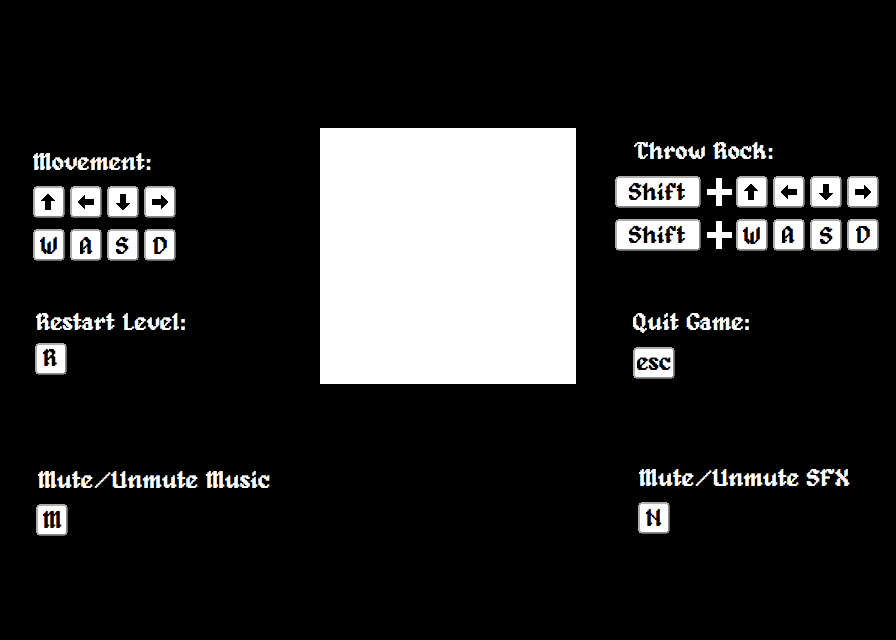
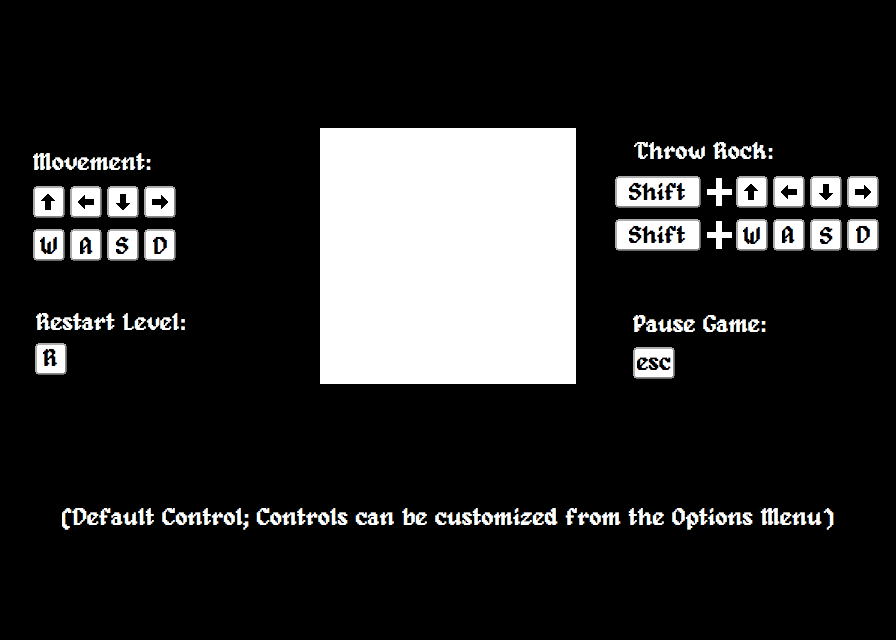
Check-in just in case, comp trouble

Changed region(s): [[0.0312, 0.7188, 0.9688, 0.8438], [0.6875, 0.4688, 0.875, 0.5312]]

diff --git a/src/game_state/review_input_bindings.rb b/src/game_state/review_input_bindings.rb
@@ -3,13 +3,17 @@ class GameState
     
     def setup_menu
       @title = "Current Bindings"
-      add_option("Back") { transition_to(GameState::ConfigMenu.new) }
+      add_option("Accept") { back }
       add_option("Customize Bindings") { transition_to(GameState::CustomizeInputMenu.new) }
       add_option("Restore Defaults") { InputManager.restore_default_bindings; MediaManager.play_sfx("portal"); }
     end
     
     def menu_start_pos
       475
+    end
+    
+    def back
+      transition_to(GameState::ConfigMenu.new)
     end
     
     def draw
@@ -19,7 +23,7 @@ class GameState
     
     def draw_binding(desc,keys,index)
       font = MediaManager.font('small')
-      ypos = 150 + 25 * index
+      ypos = 150 + 30 * index
       key_str = names_for(keys)
       font.draw_rel("#{desc}:",center_x-80, ypos, 14,1.0,0.5)
       font.draw_rel(key_str,center_x-70,ypos, 14, 0.0, 0.5)
@@ -33,7 +37,11 @@ class GameState
       char = Gosu.button_id_to_char(key)
       return char.upcase if char.length > 0
       sym = (Gosu.constants - [:MAJOR_VERSION, :MINOR_VERSION, :POINT_VERSION, :VERSION, :LICENSES]).find {|const| Gosu.const_get(const) == key }
-      return sym.to_s if sym
+      if sym
+        name = sym.to_s
+        name = name.start_with?("KB_") ? name[3..-1] : name
+        return name.tr('_',' ')
+      end
       key
     end
     

diff --git a/src/game_state/control_style_menu.rb b/src/game_state/control_style_menu.rb
@@ -2,19 +2,29 @@ class GameState
   class ControlStyleMenu < Menu
     def setup_menu
       @title = "Choose Control Style"
-      add_option("Hold Modifier to Throw") { InputManager.input_style = :modifier; back }
-      add_option("Dedicated Throw Controls") { InputManager.input_style = :separate; back }
+      add_option("Hold Modifier to Throw") { InputManager.input_style = :modifier; show_config }
+      add_option("Dedicated Throw Controls") { InputManager.input_style = :separate; show_config }
       add_option("Back") { back }
     end
     
     
     def back
-      transition_to(GameState::ConfigMenu.new )
+      transition_to(GameState::ConfigMenu.new)
+    end
+    
+    def show_config
+      transition_to(GameState::ReviewInputBindings.new)
     end
     
     def draw
       super
-      #TODO: add explanations for the two control methods
+      MediaManager.font("small").draw_rel(description,center_x,550,14,0.5,0.5)
+    end
+
+    DESCRIPTIONS = ["Hold a modifier key and press a direction to throw a rock", "Separate direction keys for movement and throwing rocks",""].freeze
+
+    def description
+      DESCRIPTIONS[@position]
     end
       
     

diff --git a/src/game_state/config_menu.rb b/src/game_state/config_menu.rb
@@ -2,11 +2,15 @@ class GameState
   class ConfigMenu < Menu
     def setup_menu
       @title = "Options"
-      add_option("Music: #{MediaManager.music? ? "On" : "Off"}") { MediaManager.toggle_music }
-      add_option("SFX: #{MediaManager.sfx? ? "On" : "Off"}") { MediaManager.toggle_sfx }
+      add_option(->{"Music: #{MediaManager.music? ? "On" : "Off"}"}) { MediaManager.toggle_music }
+      add_option(->{"SFX: #{MediaManager.sfx? ? "On" : "Off"}"}) { MediaManager.toggle_sfx }
       add_option("Choose Control Style") { transition_to(GameState::ControlStyleMenu.new) }
       add_option("View/Customize Controls") { transition_to(GameState::ReviewInputBindings.new) }
-      add_option("Back") { transition_to(parent_menu) }
+      add_option("Back") { back }
+    end
+    
+    def back
+      transition_to(parent_menu)
     end
     
     def parent_menu

diff --git a/src/game_state/menu.rb b/src/game_state/menu.rb
@@ -30,7 +30,8 @@ class GameState
       @options.each_with_index do |option,index|
         scale = (index == @position) ? 1.5 : 1
         ypos = menu_start_pos + (75 * index)
-        draw_text(option[:text],ypos,scale)
+        text = option[:text].respond_to?(:call) ? option[:text].call : option[:text]
+        draw_text(text,ypos,scale)
       end
     end
     
@@ -39,8 +40,16 @@ class GameState
       when :south, :throw_south then @position += 1
       when :north, :throw_north then @position -= 1
       when :accept then trigger_selected
+      when :pause then on_menu_button
       end
       @position %= @options.length
+    end
+    
+    def on_menu_button
+      back
+    end
+    
+    def back
     end
       
     def transition_to(state)

diff --git a/src/util/input_manager/modifier_controls.rb b/src/util/input_manager/modifier_controls.rb
@@ -13,9 +13,7 @@ class InputManager
       KbA => :west,
       KbD => :east,
       KbEscape => :pause,
-      KbR => :restart,
-      KbM => :toggle_music,
-      KbN => :toggle_sfx,
+      KbR => :restart
     }.freeze
   
     MODIFIERS = [KbLeftShift, KbRightShift].freeze
@@ -34,9 +32,7 @@ class InputManager
       east: "Move Right",
       modifier: "Hold for Throw",
       pause: "Pause Game",
-      restart: "Restart Level",
-      toggle_music: "Music On/Off",
-      toggle_sfx: "SFX On/Off"     
+      restart: "Restart Level"
     }.freeze
 
     attr_reader :queued_input

diff --git a/src/util/input_manager/separate_controls.rb b/src/util/input_manager/separate_controls.rb
@@ -13,9 +13,7 @@ class InputManager
       KbLeft => :throw_west,
       KbRight => :throw_east,
       KbEscape => :pause,
-      KbR => :restart,
-      KbM => :toggle_music,
-      KbN => :toggle_sfx
+      KbR => :restart
     }.freeze
     
     BIND_LIST = {
@@ -28,9 +26,7 @@ class InputManager
       throw_west: "Throw Left",
       throw_east: "Throw Right",
       pause: "Pause Game",
-      restart: "Restart Level",
-      toggle_music: "Music On/Off",
-      toggle_sfx: "SFX On/Off"     
+      restart: "Restart Level" 
     }.freeze
     
     def setup_bindings

diff --git a/src/util/media_manager.rb b/src/util/media_manager.rb
@@ -61,7 +61,7 @@ module MediaManager
       case level
       when  0..5  then "oceans"
       when  6..10 then "ghost"
-      when 11..15 then "cheese"
+      when 11..20 then "cheese" #TODO: Make fourth song
       else "oceans"
       end
     end
@@ -85,7 +85,7 @@ module MediaManager
     end
     
     def toggle_music
-      Gosu::Song.current_song ? stop_music : play_music(_song_for_level)
+      Gosu::Song.current_song ? stop_music : play_music
     end
   
     private  

diff --git a/src/game_state/pause_menu.rb b/src/game_state/pause_menu.rb
@@ -8,5 +8,9 @@ class GameState
       add_option("Return to Main Menu") { $game.paused = false; transition_to(GameState::MainMenu.new) }
     end
     
+    def on_menu_button
+      $game.unpause
+    end
+    
   end
 end

diff --git a/src/game_state/main_menu.rb b/src/game_state/main_menu.rb
@@ -7,5 +7,9 @@ class GameState
       add_option("Options") { transition_to(GameState::ConfigMenu.new) }
       add_option("Quit Game") { exit }
     end
+    
+    def on_menu_button
+      exit
+    end
   end
 end

diff --git a/src/units/enemy/sentry.rb b/src/units/enemy/sentry.rb
@@ -7,4 +7,9 @@ class Enemy::Sentry < Enemy::Watcher
     10
   end 
   
+  def imagename
+    frame = ((Gosu.milliseconds % 1000) / 500) + 1
+    "sentry_#{@facing}_#{frame}"
+  end
+  
 end
